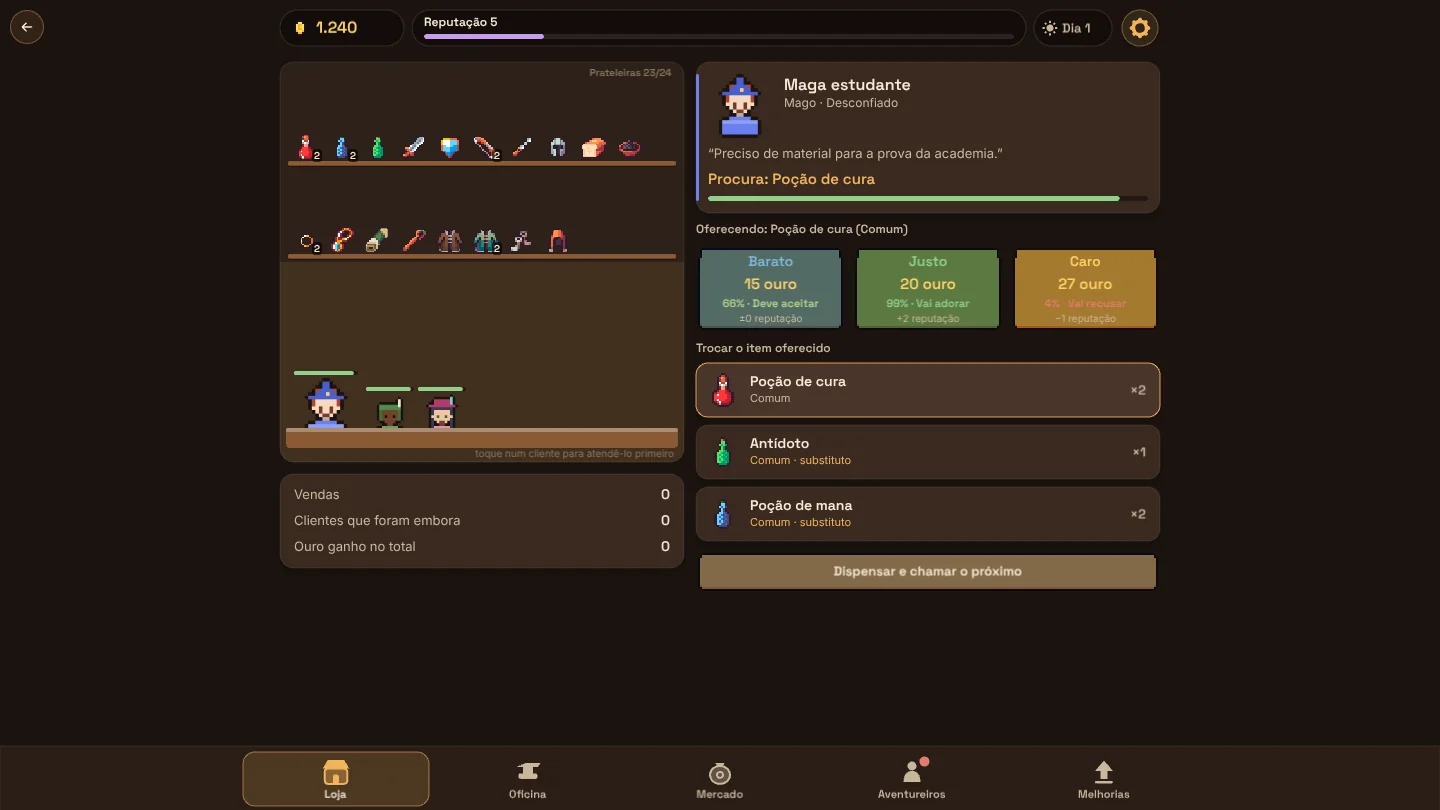
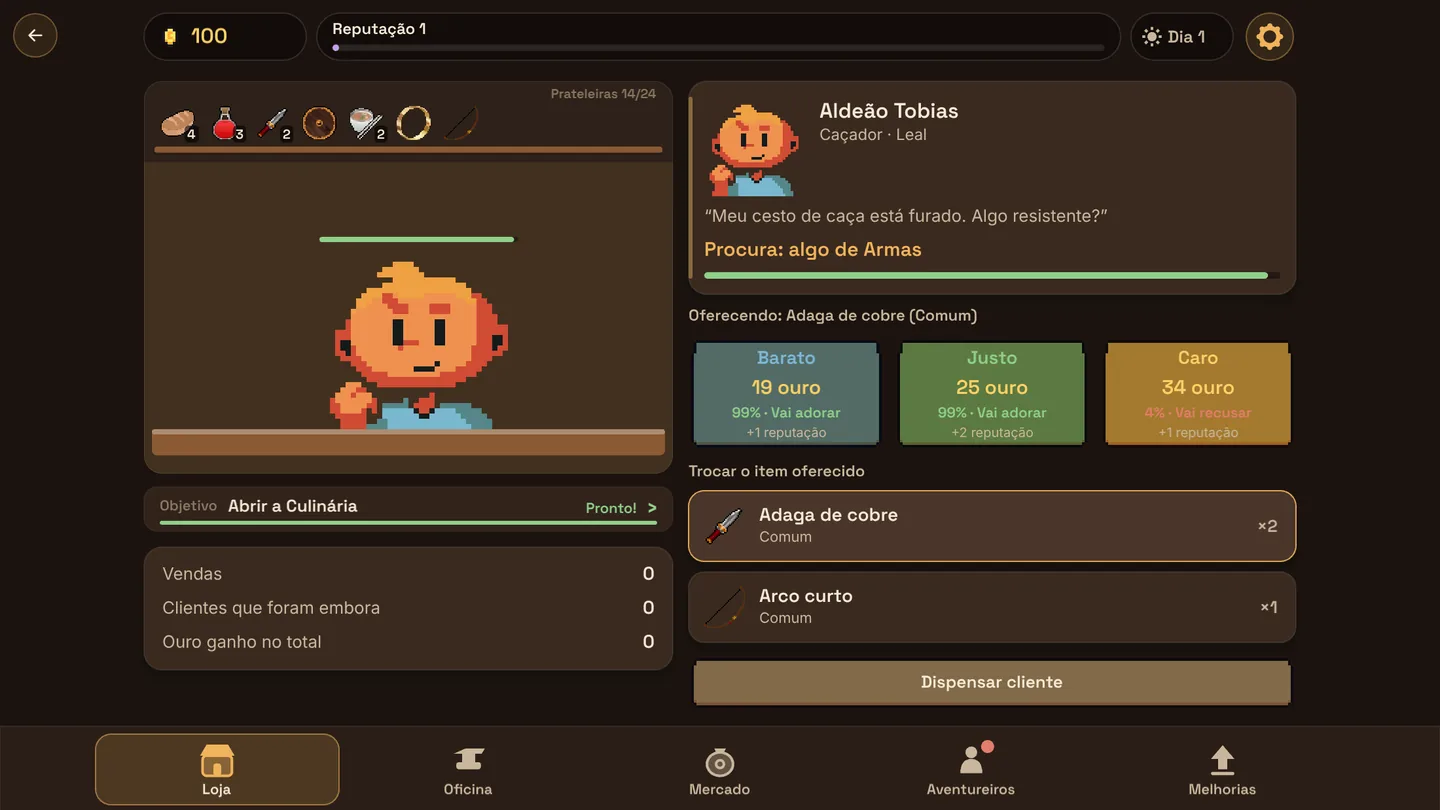
feat(jogos): atualiza a imagem da Loja do Aventureiro
Print novo da versão atual do jogo, no lugar da tela antiga.

Claude-Session: https://claude.ai/code/session_01RJkPHF2qH3nTGscjU42dFF

diff --git a/portfolio.html b/portfolio.html
@@ -215,7 +215,7 @@
                     <span>Idle Bits</span>
                 </a>
                 <a class="mosaic-tile" href="#loja-do-aventureiro" aria-label="Ver Loja do Aventureiro">
-                    <img src="assets/projetos/loja.webp" width="1440" height="810" alt="" decoding="async">
+                    <img src="assets/projetos/loja.webp?v=2" width="1440" height="810" alt="" decoding="async">
                     <span>Loja do Aventureiro</span>
                 </a>
             </div>
@@ -375,9 +375,9 @@
             <div class="games reveal stagger" style="margin-top:clamp(1rem,2.5vw,1.5rem)">
                 <article class="work-item game" id="loja-do-aventureiro">
                     <div class="game-cover">
-                        <img src="assets/projetos/loja.webp" width="1440" height="810"
+                        <img src="assets/projetos/loja.webp?v=2" width="1440" height="810"
                             loading="lazy" decoding="async"
-                            alt="Loja do Aventureiro em jogo: prateleiras com poções, armas e armaduras, uma maga estudante no balcão esperando o atendimento e os três preços para escolher: barato, justo e caro.">
+                            alt="Loja do Aventureiro em jogo: o aldeão Tobias no balcão procurando algo de armas, as prateleiras com comida, poções e armas, e os três preços para escolher: barato, justo e caro.">
                     </div>
                     <div class="game-body">
                         <span class="pill pill--live">No ar</span>

diff --git a/jogos.html b/jogos.html
@@ -232,9 +232,9 @@
             <div class="games reveal stagger" style="margin-top:clamp(1rem,2.5vw,1.5rem)">
                 <article class="work-item game" id="loja-do-aventureiro">
                     <div class="game-cover">
-                        <img src="assets/projetos/loja.webp" width="1440" height="810"
+                        <img src="assets/projetos/loja.webp?v=2" width="1440" height="810"
                             loading="lazy" decoding="async"
-                            alt="Loja do Aventureiro em jogo: prateleiras com poções, armas e armaduras, uma maga estudante no balcão esperando o atendimento e os três preços para escolher: barato, justo e caro.">
+                            alt="Loja do Aventureiro em jogo: o aldeão Tobias no balcão procurando algo de armas, as prateleiras com comida, poções e armas, e os três preços para escolher: barato, justo e caro.">
                     </div>
                     <div class="game-body">
                         <span class="pill pill--live">No ar</span>
